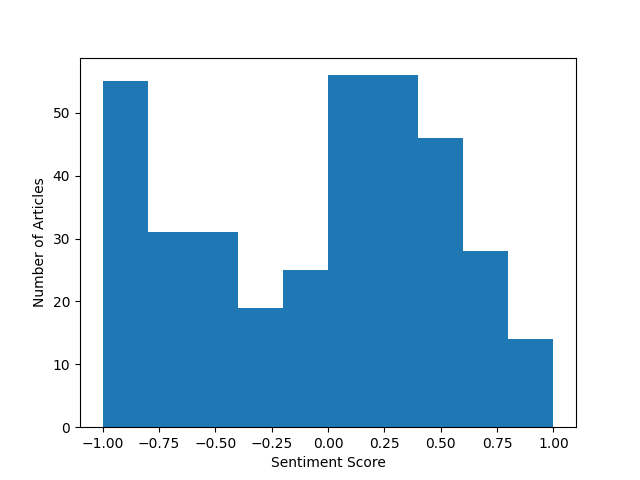
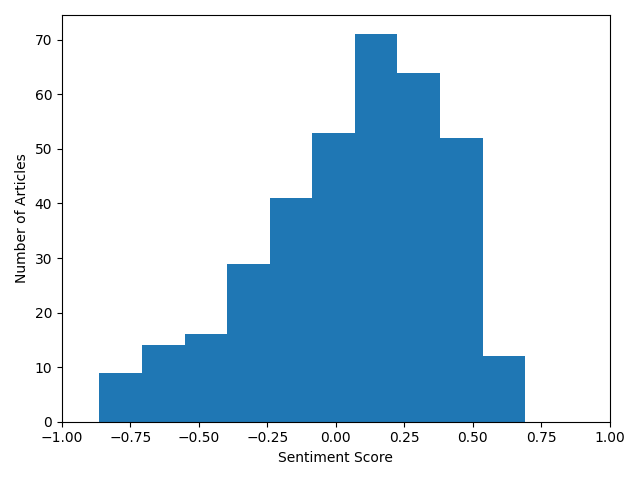
updated figures

diff --git a/main.py b/main.py
@@ -64,22 +64,46 @@ def plot_histogram(sentiment_file):
 
     df['average_sentiment'] = df[['sentiment', 'sentiment_contents', 'sentiment_description']].mean(axis=1)
     
-    print(f"Average Sentiment Score:\t{df['sentiment'].mean()}")
+    print(f"Average Sentiment Title Score:\t{df['sentiment'].mean()}")
     print(f"Average Sentiment Contents Score:\t{df['sentiment_contents'].mean()}")
     print(f"Average Sentiment Description Score:\t{df['sentiment_description'].mean()}")
+    print(f"All Average Sentiment:\t{df['average_sentiment'].mean()}")
     print(f"Total Articles:\t{df.shape[0]}")
 
-    plt.figure(figsize=(4,10))
-    plt.subplot(411).hist(df['sentiment'])
-    plt.title('A'), plt.ylabel('Number of Articles'), plt.xlabel('Sentiment Score'), plt.xlim([-1.0, 1.0])
-    plt.subplot(412).hist(df['sentiment_contents'])
-    plt.title('B'), plt.ylabel('Number of Articles'), plt.xlabel('Sentiment Score'), plt.xlim([-1.0, 1.0])
-    plt.subplot(413).hist(df['sentiment_description'])
-    plt.title('C'), plt.ylabel('Number of Articles'), plt.xlabel('Sentiment Score'), plt.xlim([-1.0, 1.0])
-    plt.subplot(414).hist(df['average_sentiment'])
-    plt.title('D'), plt.ylabel('Number of Articles'), plt.xlabel('Sentiment Score'), plt.xlim([-1.0, 1.0])
+    # plt.figure(figsize=(4,6))
+    # plt.subplot(411).hist(df['sentiment'])
+    # plt.title('A'), plt.ylabel('Number of Articles'), plt.xlabel('Sentiment Score'), plt.xlim([-1.0, 1.0])
+    # plt.subplot(412).hist(df['sentiment_contents'])
+    # plt.title('B'), plt.ylabel('Number of Articles'), plt.xlabel('Sentiment Score'), plt.xlim([-1.0, 1.0])
+    # plt.subplot(413).hist(df['sentiment_description'])
+    # plt.title('C'), plt.ylabel('Number of Articles'), plt.xlabel('Sentiment Score'), plt.xlim([-1.0, 1.0])
+    # plt.subplot(414).hist(df['average_sentiment'])
+    # plt.title('D'), plt.ylabel('Number of Articles'), plt.xlabel('Sentiment Score'), plt.xlim([-1.0, 1.0])
+    plt.hist(df['average_sentiment'])
+    plt.ylabel('Number of Articles'), plt.xlabel('Sentiment Score'), plt.xlim([-1.0, 1.0])
     plt.tight_layout()
     plt.show()
+
+def top_sentiment_articles(sentiment_file, output_fname):
+    """
+    Retrieve the articles with the most negative and positive sentiments
+    """
+    sentiment_file_fname = os.path.join(os.path.dirname('__file__'), sentiment_file)
+    with open(sentiment_file_fname, 'r', encoding='utf-8') as f:
+        df = pd.read_csv(f)
+    
+    df['average_sentiment'] = df[['sentiment', 'sentiment_contents', 'sentiment_description']].mean(axis=1)
+    sorted_df = df.sort_values('average_sentiment')
+
+    data = [
+        sorted_df.head(5)[['source_name', 'sentiment', 'sentiment_contents', 'sentiment_description', 'average_sentiment']].to_dict(),
+        sorted_df.tail(5)[['source_name', 'sentiment', 'sentiment_contents', 'sentiment_description', 'average_sentiment']].to_dict()
+    ]
+    output_fname = os.path.join(os.path.dirname('__file__'), output_fname)
+    with open(output_fname, 'w') as f:
+        json.dump(data, f, indent=4)
+
+    # return df.head(5), df.tail(5)
 
 def plot_sentiment_all(sentiment_df):
     plt.barh(df['source_name'], df['average_sentiment'])
@@ -122,11 +146,14 @@ if __name__ == '__main__':
     df = group_sentiment_by_newspaper(args.input_file)
     df = df[df['article_count'] >= 10]
 
-    output_fname = os.path.join(os.path.dirname('__file__'), args.output_file)
-    with open(output_fname, 'w') as f:
-        json.dump(df.to_dict(), f, indent=4)
+    # output_fname = os.path.join(os.path.dirname('__file__'), args.output_file)
+    # with open(output_fname, 'w') as f:
+    #     json.dump(df.to_dict(), f, indent=4)
     
     # plotting the figures
-    # plot_histogram(args.input_file)
+    # top_sentiment_articles(args.input_file, args.output_file)
+    plot_histogram(args.input_file)
     # plot_sentiment(df)
     # plot_sentiment_all(df)
+
+    # print(df)

diff --git a/processing__sentiment.py b/processing__sentiment.py
@@ -1,4 +1,3 @@
-
 from models import *
 import requests
 from bs4 import BeautifulSoup
